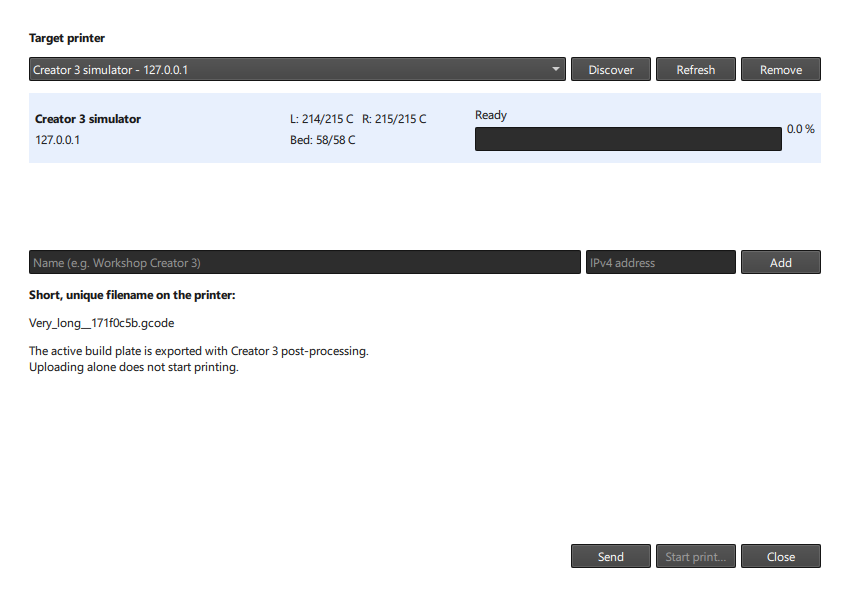
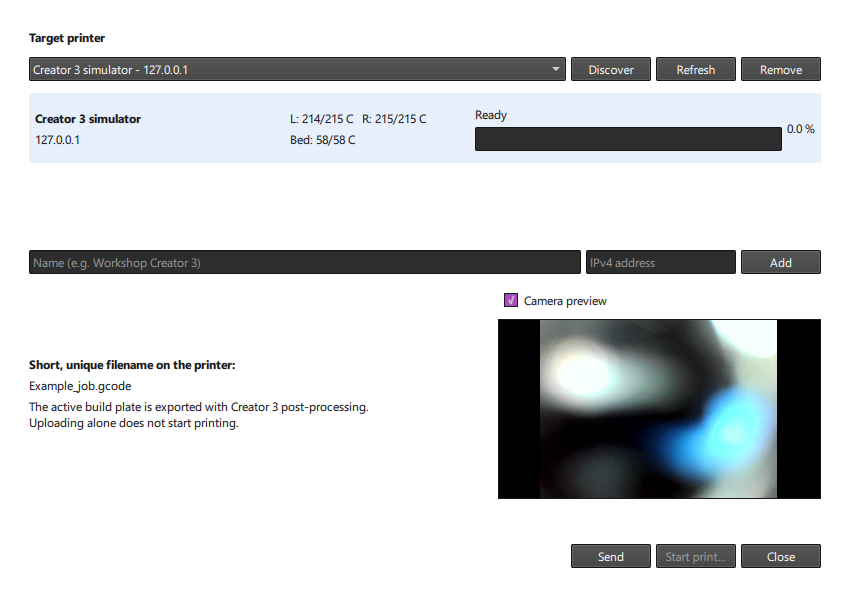
Update send dialog screenshot with embedded camera image

Changed region(s): [[0.5812, 0.4672, 0.9788, 0.841], [0.0306, 0.4672, 0.4282, 0.7164]]

diff --git a/README.md b/README.md
@@ -287,11 +287,13 @@ That envelope is used **only to generate native calibration pads**. It is not ad
 
 Open **Extensions > Creator 3 - Send to printer > Send sliced build plate...**, or choose **Send to printer** from Cura's output-device choices for this integration printer.
 
-![English Send to printer window](docs/send-to-printer.png)
+![English Send to printer window with an embedded camera image](docs/send-to-printer.png)
+
+The **Camera preview** frame displays the selected printer's camera image directly inside this window, alongside the job details—no browser or FlashPrint window is needed. The screenshot uses simulated printer status and a camera image from my printer.
 
 1. Click **Discover**, or enter a friendly name and **IPv4 address**, then **Add**.
 2. Select a target printer. The selection and target list persist in local Cura preferences.
-3. Check the reported state, **L/R nozzle temperatures**, bed temperature and progress.
+3. Check the reported state, **L/R nozzle temperatures**, bed temperature and progress. View the printer's camera image in the **Camera preview** frame.
 4. Once slicing is complete and the printer reports a fresh **Ready** state, click **Send**.
 5. Wait for the confirmed upload.
 6. Optionally choose **Start print...**, check the file and target shown in the confirmation, then explicitly confirm.
